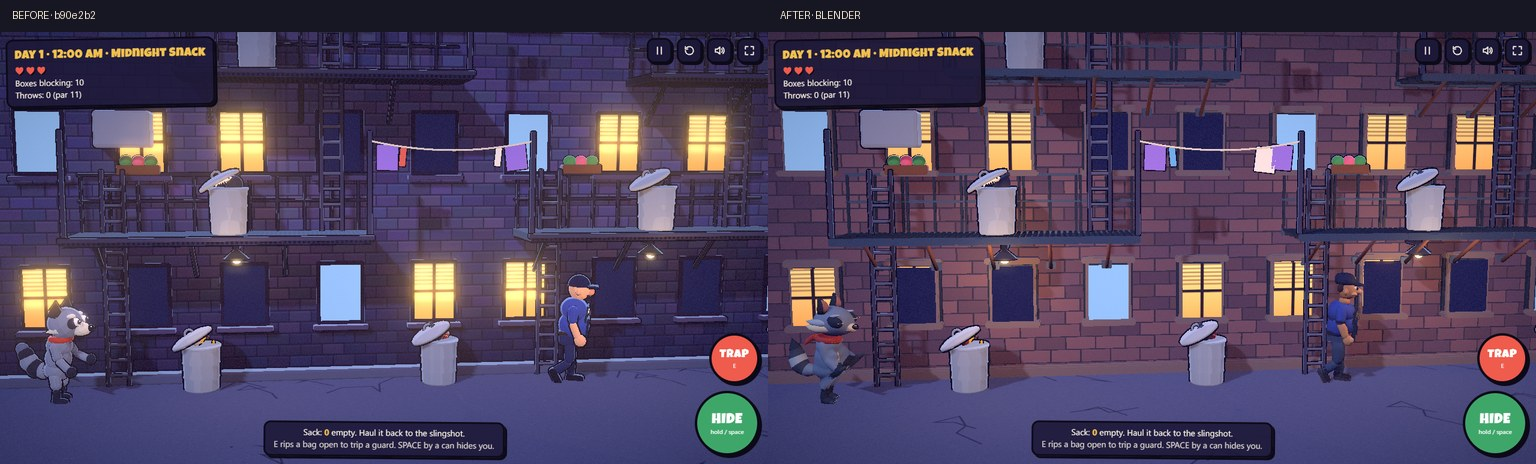
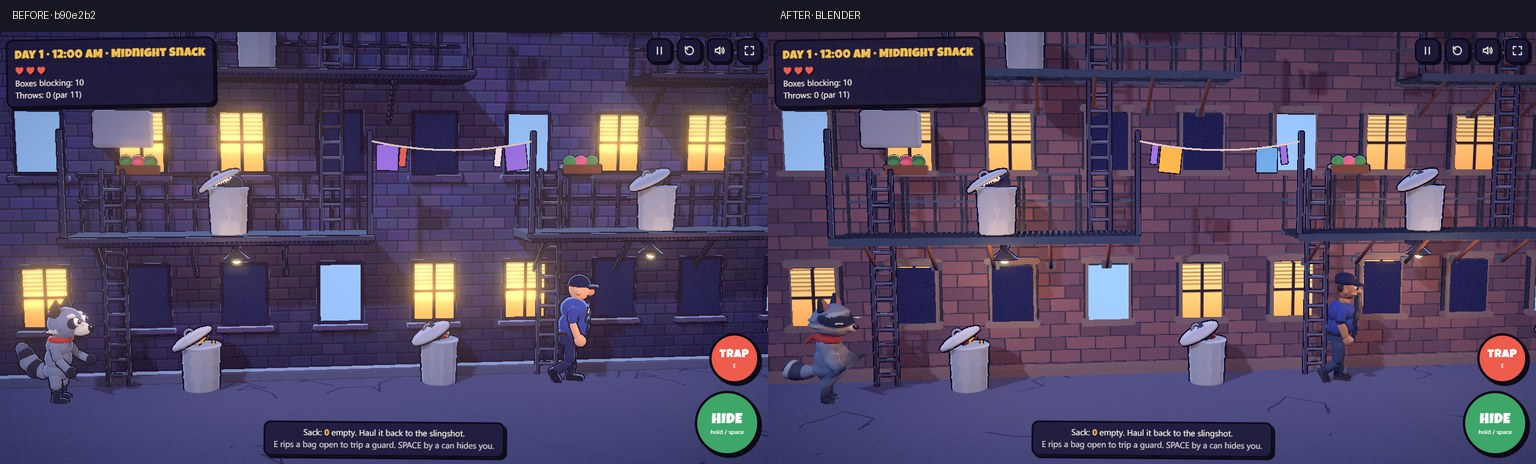
Refresh gameplay comparisons for the sculpted raccoon

diff --git a/docs/phase-a/README.md b/docs/phase-a/README.md
@@ -1,6 +1,6 @@
 # Midnight Snack graphics review
 
-The raccoon has a continuous, weighted torso and limbs with separately animated eyes, ears, scarf details, and striped tail. The Blender export contains an armature and vertex weights. Three.js binds the imported body to the existing animation joints, so locomotion, poses, and hand targets share the same animation system. The same library supplies the guard and stocker, apartment facade, instanced fire escapes, dumpster, slingshot, cartons, crates, and representative loot.
+The raccoon has a sculpted head with vertex-painted facial markings, a continuous weighted body with blended coat markings, and a long, skinned striped tail. Eyes, ears, and scarf details remain separately animated. Three.js binds the imported skin to the existing animation joints, so locomotion, poses, and hand targets share the same animation system. The same library supplies the guard and stocker, apartment facade, instanced fire escapes, dumpster, slingshot, cartons, crates, and representative loot.
 
 ## Rebuild the models
 
@@ -10,7 +10,7 @@ Use Blender 4.5 LTS from the repository root.
 blender --background --threads 4 --python-exit-code 1 --python art/generate.py
 ```
 
-The command updates the editable [Blender scene](../../art/midnight.blend) and the [runtime GLB](../../assets/midnight.glb). The Blender scene has UVs. The roughly 2.2 MB GLB uses authored PBR materials and omits unused texture coordinates and images. The game loads the GLB once, shares geometry and materials, and instances the repeating deck sections. The lowest quality tier omits real-time shadow maps and post-processing. All added models and materials were created for this repository without third-party model or texture assets.
+The command updates the editable [Blender scene](../../art/midnight.blend) and the [runtime GLB](../../assets/midnight.glb). The Blender scene has UVs. The roughly 2.4 MB GLB uses authored PBR materials and omits unused texture coordinates and images. The game loads the GLB once, shares geometry and materials, and instances the repeating deck sections. The lowest quality tier omits real-time shadow maps and post-processing. All added models and materials were created for this repository without third-party model or texture assets.
 
 ## Playable comparisons
 
